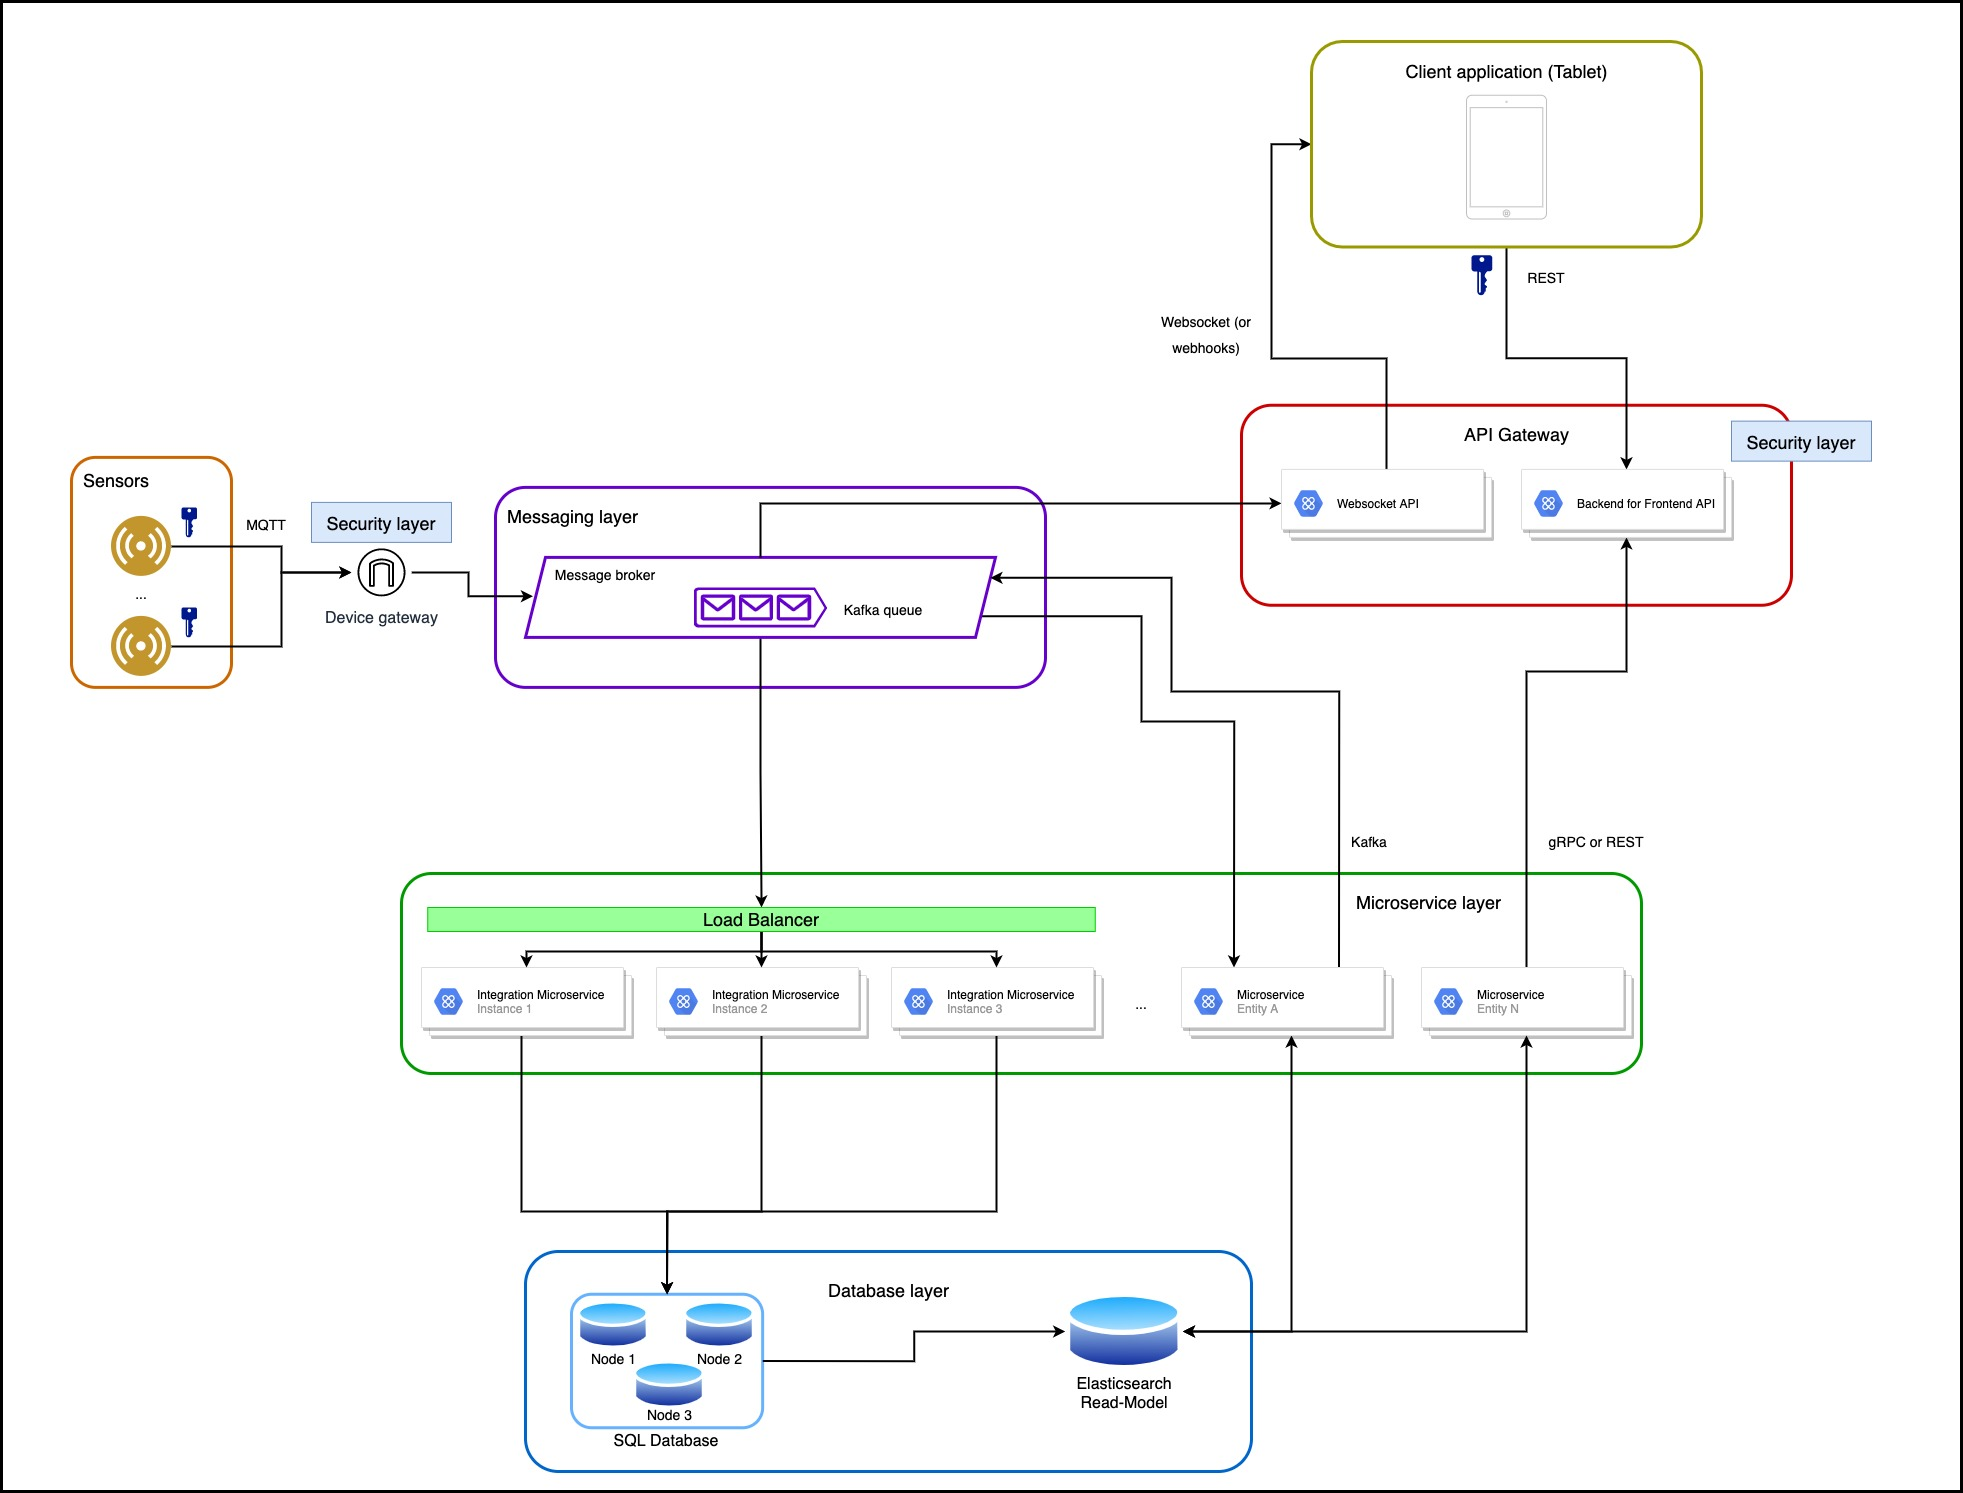
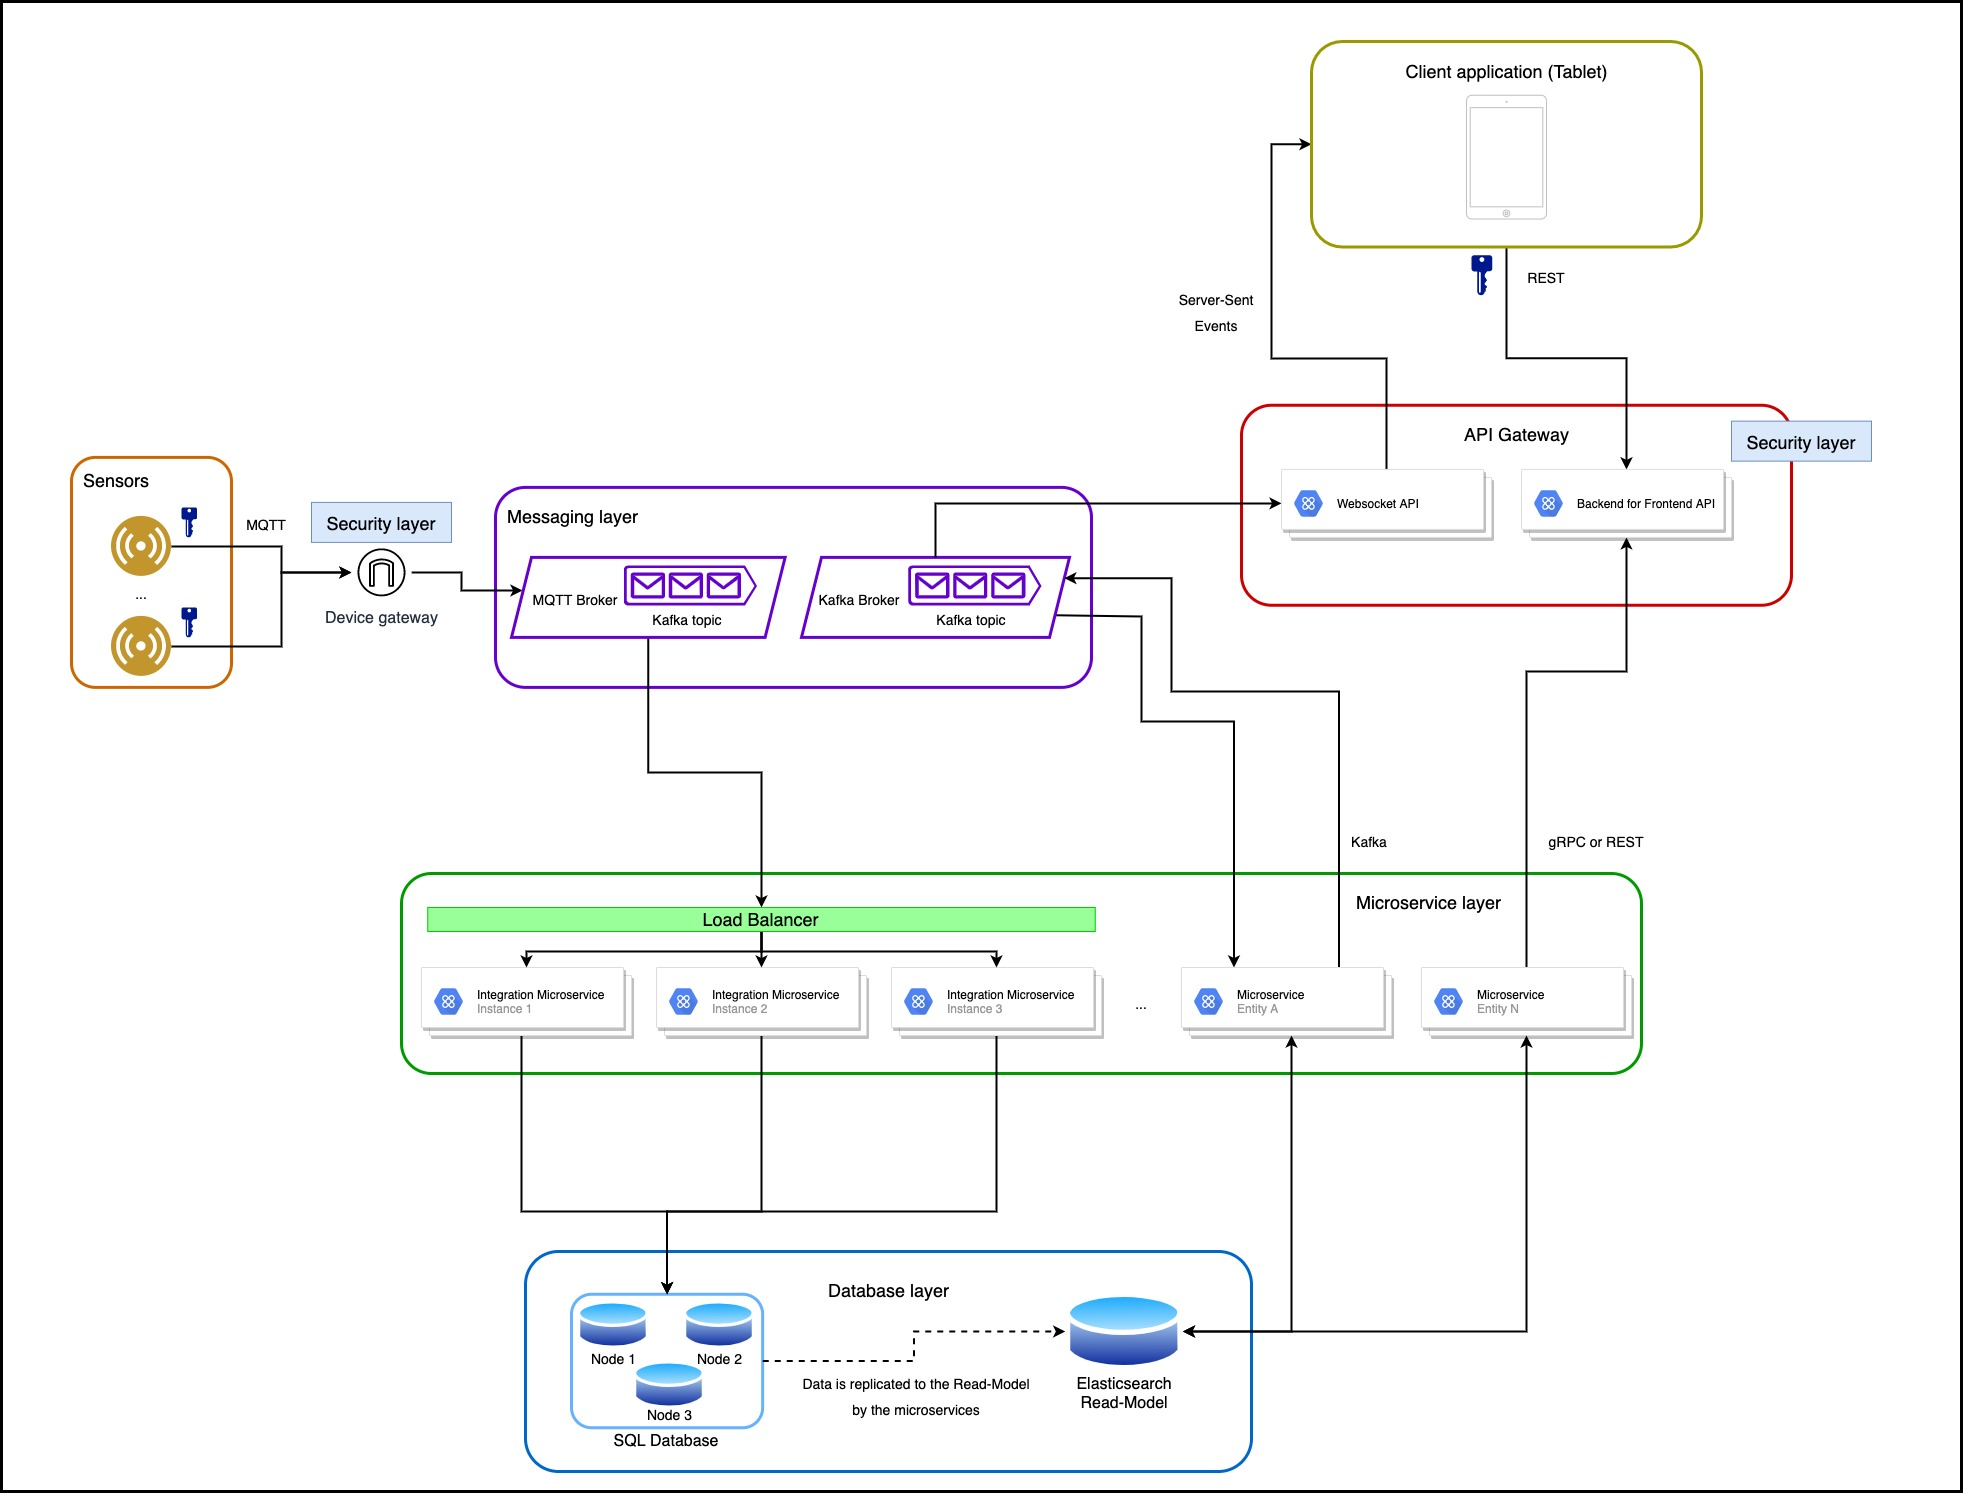
chore: updated architecture diagram and added more details about it

diff --git a/README.md b/README.md
@@ -10,27 +10,33 @@
 - Client communicates with its “own” API using a backend for frontend approach
 - The requests are authenticated using a json web token, stored on a session http only cookie
 - A possible improvement is the implementation of CSRF Protection (to prevent cross-site request forgery attacks)
-- In addition to the REST communication, we could also push data to the client application using a websocket if, for example, we wanted to notify the user about new data
 
-### BFF (Backend for Frontend) API
+### API Gateway layer
 
-- The main goal would be to provide the required data for the client application to work, consuming from multiple microservices (using REST or gRPC)
+- The BFF (Backend for Frontend) API main goal would be to provide the required data for the client application to work and display everything it needs, consuming from multiple microservices (using REST or gRPC)
+- We also could have an API responsible for pushing unidirectional events into the client using Server-Sent Events, for example, we wanted to notify the user about new data
 
-### Microservices
+### Messaging layer
 
-- Several microservices could be available to provide authentication, data or process data
-- Some microservices that return data would be connected to an elasticsearch read-model that would give processed data, with better search performance
+- We could have 2 message brokers, one using MQTT for the sensors and other with Kafka for event communication
+- The usage of MQTT communication is the standard messaging protocol for IoT systems being lightweight considering the low-performance of the devices, flexible to support several devices and asynchronous considering an unstable network latency
+- Kafka on the other hand would be more focused to stream data between applications
+
+### Microservices layer
+
+- Several microservices could be available to provide authentication, relevant data or process data to our databases
+- Some microservices that return data would be connected to an elasticsearch read-model that contain processed data, with better search performance and more oriented to the frontend needs or even aggregated data like per hour or per day
 - Other microservices could work as message consumers to process integrations data, coming from sensors, writing that information to the database
 
-### Database
+### Database layer
 
 - The database would be an SQL (MySQL for example), using a 3 node cluster in an active-active approach
 - MySQL would guarantee uptime and data consistency
-- Active-active, with 3+ nodes, would guarantee high availability in case of problems with one of the nodes goes down or has network issues
+- Active-active, with 3+ nodes, would guarantee high availability in case of problems with one of the nodes going down or having network issues
+- The sync between the database and the read-model would be guaranteed by the application writing to the database. Different approaches would be for the writing application to create messages to a queue or even to use a CDC (Change Data Capture) to read the database binlog and create messages with the changes
 
 ### Sensors
 
-- MQTT communication is the standard messaging protocol for IoT systems being lightweight, reliable and scalable
 - Usage of token base authorisation (or other device security certificates) to allow communication between the devices and the message broker 
 
 ### Cost analysis
@@ -41,11 +47,12 @@
 ### Event driven
 
 - The usage of a partial/full event driven architecture has advantages like leveraging asynchronous triggers, reducing the whole application dependencies and reduce the http overhead in some communications
-- The usage of message queues also allows to recover “lost messages” easily in a scenario of sudden loss of availability
+- In a system like this one, there are several places where an event driven architecture makes sense: the sensors communication, push messages to the client or even communication between the client and the database or between microservices
+- The usage of message queues has the benefit of allowing to recover “lost messages” easily in a scenario of sudden loss of availability
 
 ### High availability
 
-- Since the data volume that the sensors produce is high, we should have at least 3 consumer instances to guarantee high availability and the possibility to split the load, even if one instance is down for some time
+- Since the data volume that the sensors produce is high, we should have at least 3 consumer instances to guarantee high availability and the possibility to split the load, even if one instance is down for some time, with the use of a load balancer
 
 
 
